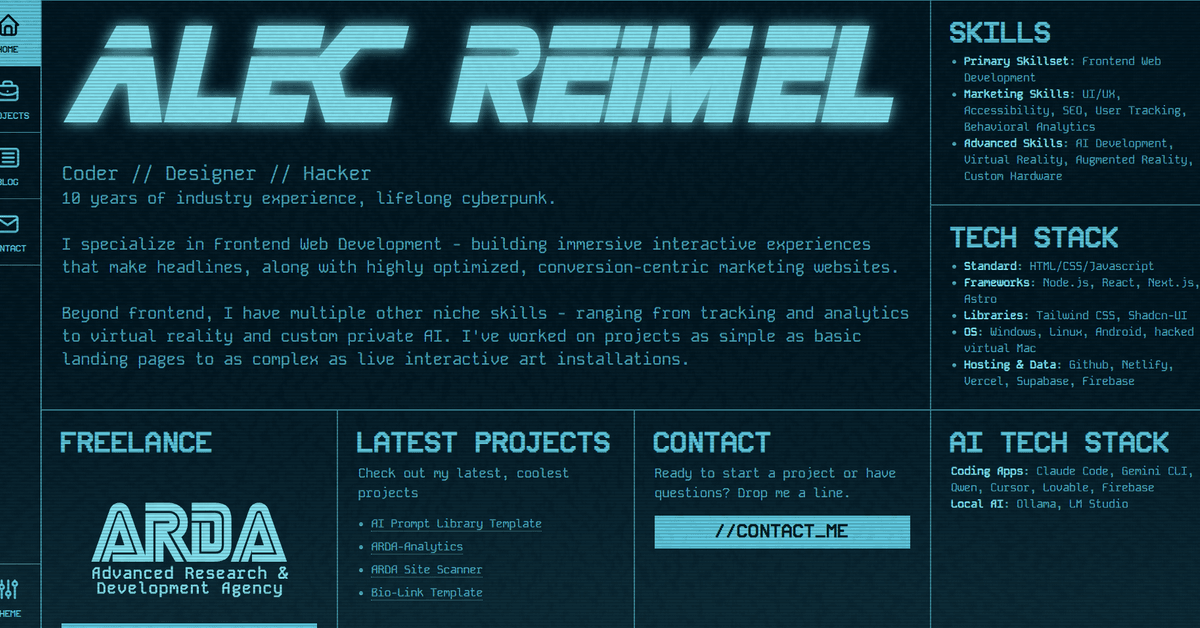
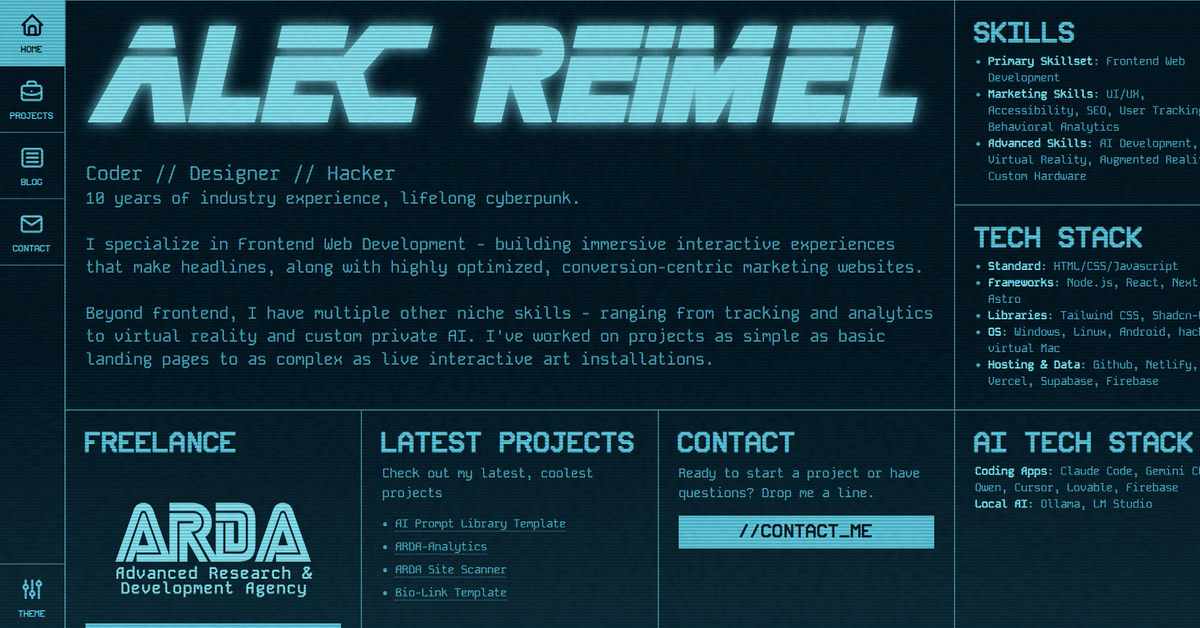
opengraph image optimization

diff --git a/scripts/optimize-images.js b/scripts/optimize-images.js
@@ -64,7 +64,7 @@ async function optimizeOpenGraphImage(inputPath, outputPath = null) {
     await sharp(inputPath)
       .resize(CONFIG.opengraph.width, CONFIG.opengraph.height, {
         fit: 'cover',
-        position: 'center'
+        position: 'left top'
       })
       .png({
         quality: CONFIG.opengraph.quality,
